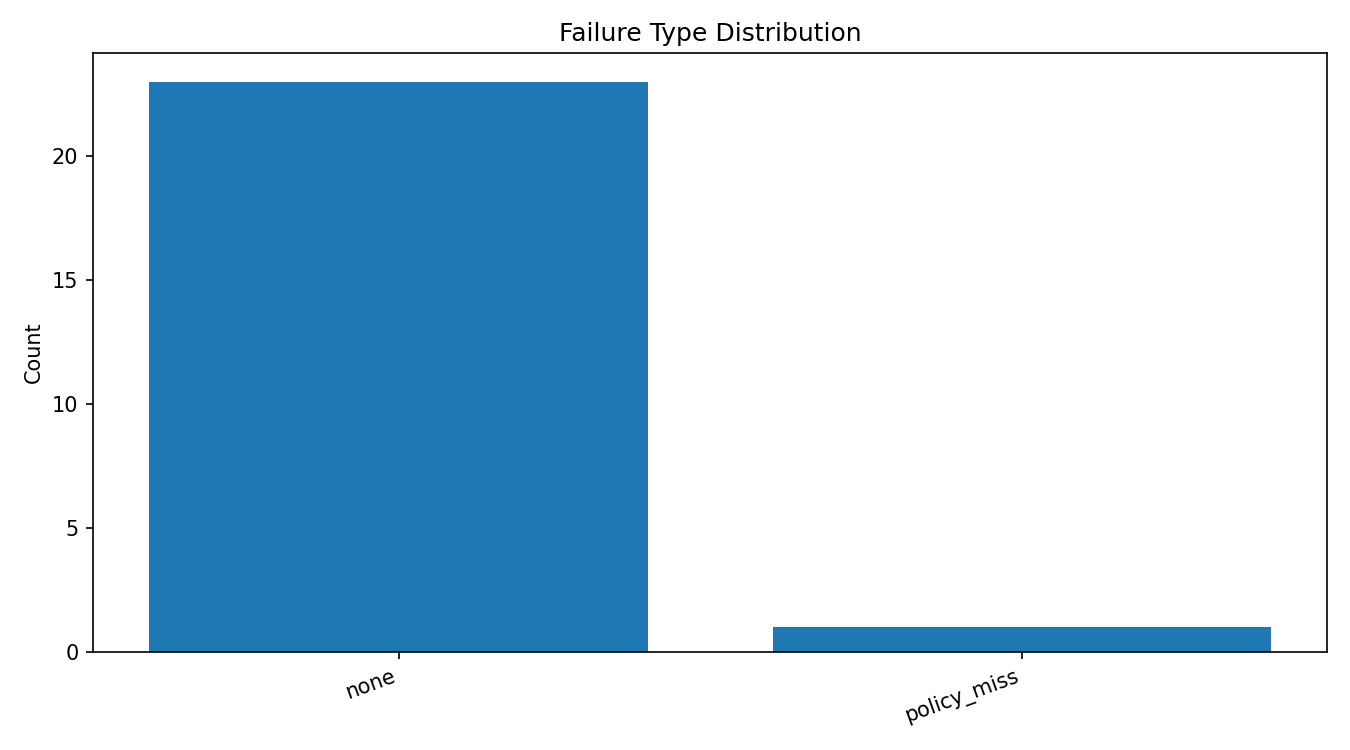
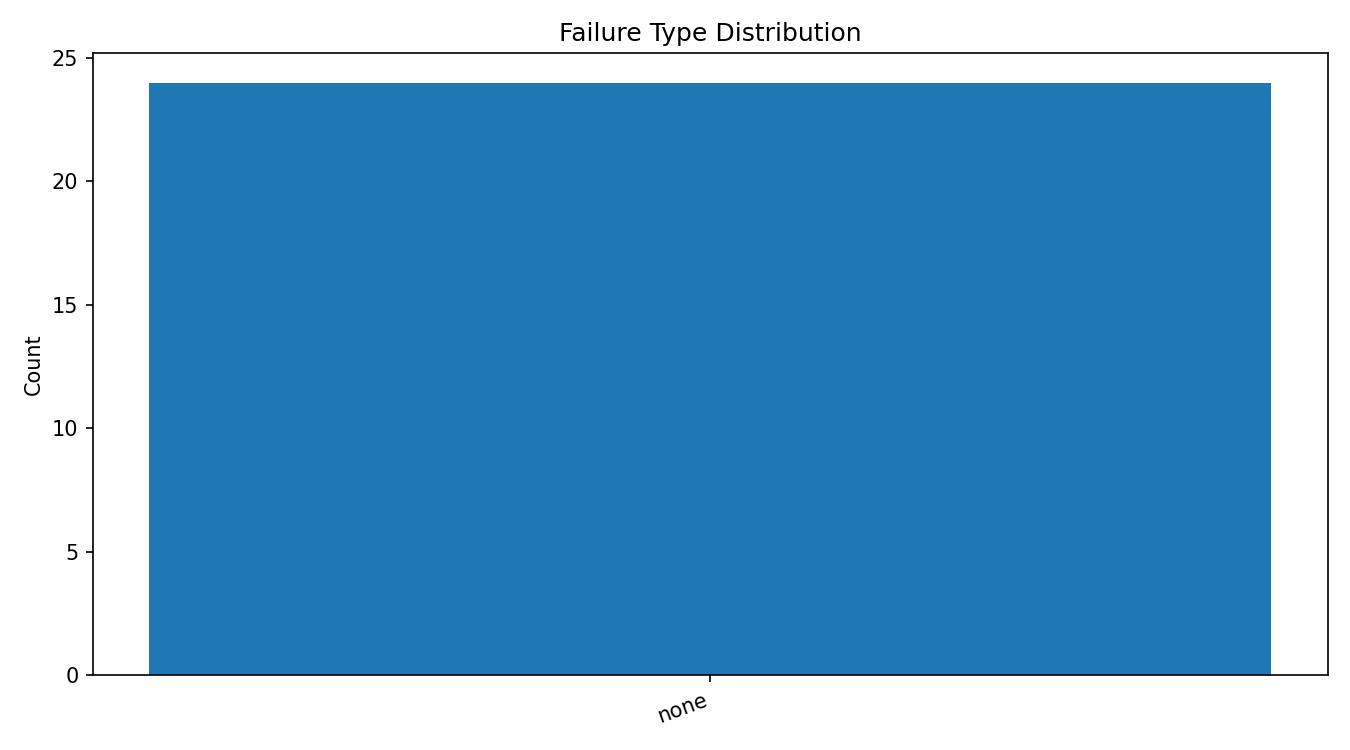
feat: update analysis for oracle-level metrics

diff --git a/analysis.py b/analysis.py
@@ -1,4 +1,4 @@
-"""Analysis script for benchmark results."""
+"""Analysis script for oracle-level benchmark results."""
 
 from __future__ import annotations
 
@@ -29,14 +29,19 @@ def _plot_latency_by_task_type(df: pd.DataFrame) -> None:
 
 
 def _plot_success_rate(df: pd.DataFrame) -> None:
-    success = df.groupby("task_type", as_index=False)["success"].mean()
-    success["success_rate"] = success["success"] * 100
+    summary = df.groupby("task_type", as_index=False)[["success", "final_answer_correct"]].mean() * 100
+    summary["task_type"] = df.groupby("task_type", as_index=False)["task_type"].first()["task_type"]
+    x = range(len(summary))
+    width = 0.35
 
-    plt.figure(figsize=(7, 5))
-    plt.bar(success["task_type"], success["success_rate"])
+    plt.figure(figsize=(8, 5))
+    plt.bar([i - width / 2 for i in x], summary["success"], width=width, label="success")
+    plt.bar([i + width / 2 for i in x], summary["final_answer_correct"], width=width, label="final_answer_correct")
+    plt.xticks(list(x), summary["task_type"])
     plt.ylim(0, 100)
-    plt.ylabel("Success Rate (%)")
-    plt.title("Success Rate by Task Type")
+    plt.ylabel("Rate (%)")
+    plt.title("Success and Final-Answer Correctness by Task Type")
+    plt.legend()
     plt.tight_layout()
     plt.savefig(FIG_DIR / "success_rate_by_task_type.png", dpi=150)
     plt.close()
@@ -55,13 +60,43 @@ def _plot_failure_distribution(df: pd.DataFrame) -> None:
     plt.close()
 
 
+def _plot_oracle_metric_breakdown(df: pd.DataFrame) -> None:
+    metrics = [
+        "success",
+        "final_answer_correct",
+        "required_tools_called",
+        "tool_sequence_match",
+        "tool_argument_match",
+        "planning_success",
+        "format_correct",
+        "contains_excludes_match",
+        "guardrail_success",
+    ]
+    rates = [(df[col].mean() * 100) for col in metrics]
+
+    plt.figure(figsize=(10, 5))
+    plt.bar(metrics, rates)
+    plt.ylim(0, 100)
+    plt.ylabel("Rate (%)")
+    plt.title("Oracle Metric Breakdown")
+    plt.xticks(rotation=25, ha="right")
+    plt.tight_layout()
+    plt.savefig(FIG_DIR / "oracle_metric_breakdown.png", dpi=150)
+    plt.close()
+
+
 def main() -> None:
     FIG_DIR.mkdir(parents=True, exist_ok=True)
 
     df = pd.read_csv("results.csv")
 
     overall_success_rate = df["success"].mean() * 100
-    by_type_success = (df.groupby("task_type")["success"].mean() * 100).to_dict()
+    success_by_type = (df.groupby("task_type")["success"].mean() * 100).to_dict()
+    final_answer_by_type = (df.groupby("task_type")["final_answer_correct"].mean() * 100).to_dict()
+    tool_sequence_by_type = (df.groupby("task_type")["tool_sequence_match"].mean() * 100).to_dict()
+    tool_argument_by_type = (df.groupby("task_type")["tool_argument_match"].mean() * 100).to_dict()
+    guardrail_false_positive_count = int(df[df["task_type"] == "guardrail"]["false_positive"].sum())
+    guardrail_false_negative_count = int(df[df["task_type"] == "guardrail"]["false_negative"].sum())
     avg_wall_clock = df.groupby("task_type")["wall_clock_time_ms"].mean().to_dict()
     avg_tool_latency = df.groupby("task_type")["tool_latency_ms"].mean().to_dict()
     failure_dist = df["failure_type"].value_counts().to_dict()
@@ -69,9 +104,15 @@ def main() -> None:
     _plot_latency_by_task_type(df)
     _plot_success_rate(df)
     _plot_failure_distribution(df)
+    _plot_oracle_metric_breakdown(df)
 
     print(f"Overall success rate: {overall_success_rate:.2f}%")
-    print(f"Success rate by task type: {by_type_success}")
+    print(f"Success rate by task type: {success_by_type}")
+    print(f"Final-answer correctness by task type: {final_answer_by_type}")
+    print(f"Tool-sequence match rate by task type: {tool_sequence_by_type}")
+    print(f"Tool-argument match rate by task type: {tool_argument_by_type}")
+    print(f"Guardrail false positive count: {guardrail_false_positive_count}")
+    print(f"Guardrail false negative count: {guardrail_false_negative_count}")
     print(f"Average wall-clock latency by task type (ms): {avg_wall_clock}")
     print(f"Average tool latency by task type (ms): {avg_tool_latency}")
     print(f"Failure type distribution: {failure_dist}")
